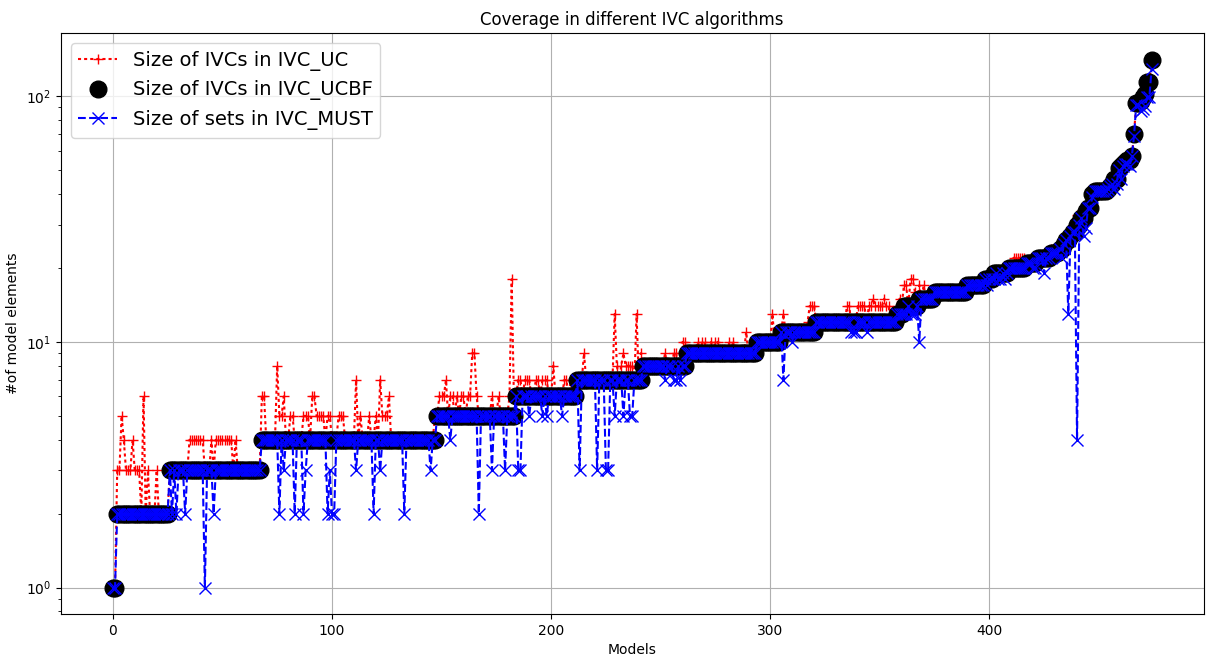
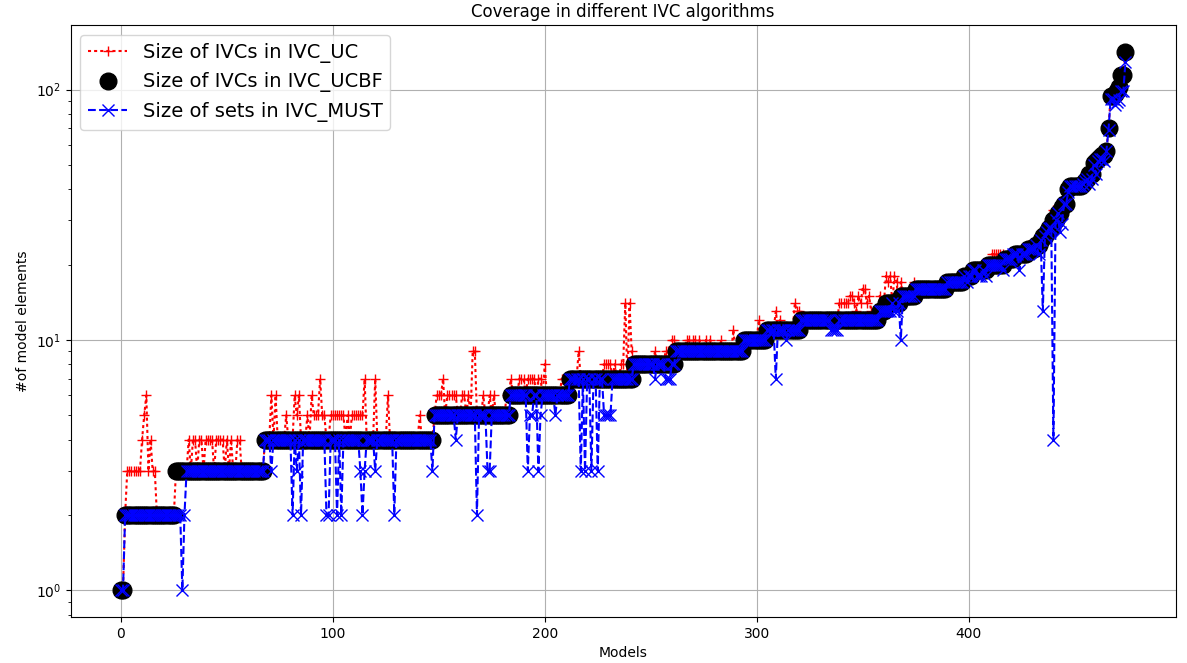
add new results

diff --git a/completeness/experiments/scripts_for_experiments/may_cov.py b/completeness/experiments/scripts_for_experiments/may_cov.py
@@ -1,0 +1,138 @@
+# computing may-cov scores
+
+__author__ = "Elaheh"
+__date__ = "$May 9, 2017 5:50:23 PM$"
+ 
+import os, sys, shelve
+import matplotlib.pyplot as plt
+from matplotlib.pyplot import cm
+from operator import itemgetter
+import numpy as np
+import xml.etree.cElementTree as ET
+  
+MINING_DIR = 'mining'
+ANALYSES_DIR = 'ivc_analyses' 
+TIMING_INFO = 'ivc_info' 
+SORTED_MODELS = 'list_of_sorted_models.txt' 
+SLICES = 'numOfEq'
+
+if not os.path.exists(MINING_DIR):
+    print(MINING_DIR + " does not exists! first, try to run mining scripts.")
+    sys.exit(-1)
+
+if not os.path.exists(ANALYSES_DIR):
+    os.mkdir(ANALYSES_DIR) 
+
+#
+# Load a list of sorted models into models[]
+#    
+models = []
+with open (os.path.join(MINING_DIR, SORTED_MODELS)) as models_name:
+    for line in models_name:
+        if (line is not '\n'):
+            models.append(line.strip('\n'))
+models_name.close()  
+
+#
+# Load info
+  
+reader = shelve.open(os.path.join(MINING_DIR, 'timing_info')) 
+
+num_of_ivcs = reader['number_of_ivc_sets'] 
+
+uc_ivcs = [] 
+must_sets = []
+ucbf_ivcs = []
+all_ivcs_sets_all_models = []
+for indx, model in enumerate(models):
+    reader = shelve.open(os.path.join(MINING_DIR, model +  '_ivc_info')) 
+    
+    ivc_sets = set([])
+    for i in range(0,int(num_of_ivcs[indx])):
+        ivc_sets = ivc_sets.union(set(reader['set' + str(i)]))
+        
+    all_ivcs_sets_all_models.append (len(ivc_sets))     
+    uc_ivcs.append(len(reader['uc_input_for_ucbf']))
+    ucbf_ivcs.append(len(reader['minimal_from_ucbf']))
+    must_sets.append(len(reader['must']))
+    reader.close()
+    
+slices = []    
+numofeq = []
+for model in models:
+    tree = ET.ElementTree(file = os.path.join(SLICES, model + '_NUMEQ.xml'))
+    for elem in tree.iter(tag = 'SlicedNumberOfEqs'):
+        slices.append (int(elem.text))
+    for elem in tree.iter(tag = 'InitialNumberOfEqs'):
+        numofeq.append (int(elem.text))    
+        
+ 
+cs = []
+for i in range(0, len(models)):
+    cs.append(all_ivcs_sets_all_models[i]/numofeq[i])
+
+writer = open(os.path.join(ANALYSES_DIR, 'may-coverage_score.txt'), 'a')
+writer.write('\nmin: ' + str(min(cs)))
+writer.write('\nmax: ' + str(max(cs)))
+writer.write('\nstdev: ' + str(np.nanstd(cs)))
+writer.write('\naverage: ' + str(np.nanmean(cs)))    
+writer.close() 
+
+ 
+# Build a list for x-axis
+x_axis = []
+for i in range(len(models)):
+    x_axis.append(i)
+       
+  
+fig = plt.figure()
+plt.subplots_adjust(hspace=0.1)
+ax = plt.subplot(111)
+
+ 
+LEGENDS =  [ 'MAY_COV with All_IVCs',
+            'IVC_COV with IVC_UC', 
+            'IVC_COV with IVC_UCBF', 
+            'MUST_COV with IVC_MUST']
+
+#
+# sort with ucvf as a base line
+#   
+
+ucbf_dic = [] 
+for indx, val in enumerate(ucbf_ivcs):
+    ucbf_dic.append({'id': indx, 'val': val})
+
+sorted_dic = sorted(ucbf_dic, key=itemgetter('val'))  
+del ucbf_dic 
+sorted_uc = []
+sorted_must = []
+sorted_ucbf = [] 
+sorted_may = []
+for item in sorted_dic:
+    sorted_ucbf.append(item['val'])
+    sorted_uc.append(uc_ivcs[item['id']])
+    sorted_must.append(must_sets[item['id']])
+    sorted_may.append(all_ivcs_sets_all_models[item['id']]) 
+###################################################################### 
+plt.plot(x_axis, sorted_may, ':gs' , markersize=5, label=LEGENDS[0])
+plt.plot(x_axis, sorted_uc, '-r+' , markersize=9, label=LEGENDS[1])
+plt.plot(x_axis, sorted_ucbf , '-ko' , markersize=10, label=LEGENDS[2]) 
+plt.plot(x_axis,  sorted_must, ':bx', markersize=5, label=LEGENDS[3])  
+########################################################################################
+
+plt.xlabel('Models')
+plt.ylabel('#of covered model elements') 
+plt.yscale('log')
+plt.title('Coverage in different IVC algorithms')
+plt.tight_layout()
+plt.grid(True)
+#plt.subplots_adjust(left=0.125, bottom=0.5, right=0.9, top=0.9, wspace=0.2, hspace=0.2)
+box = ax.get_position()
+ax.set_position([box.x0, box.y0, box.width * 0.8, box.height])
+ax.legend(loc=2, prop={'size':14}) 
+fig.savefig(os.path.join(ANALYSES_DIR, 'coverage_analyses2.png'))
+plt.show()
+plt.close(fig)
+    
+ 
